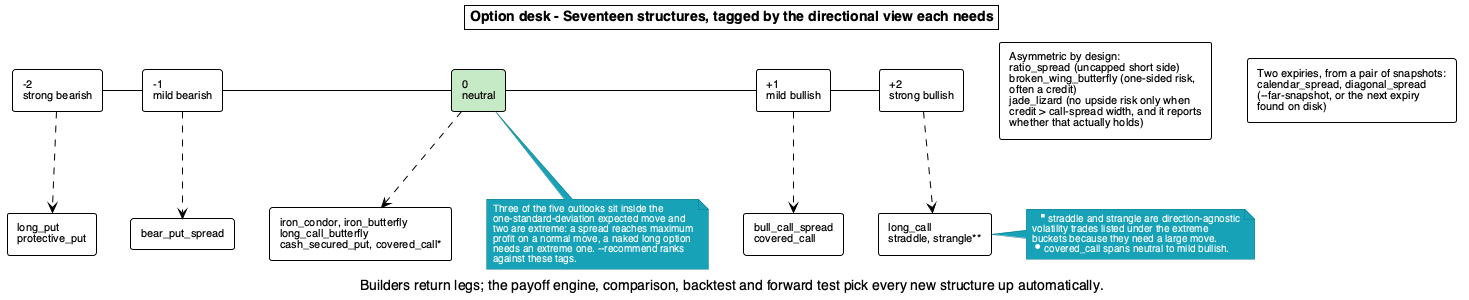
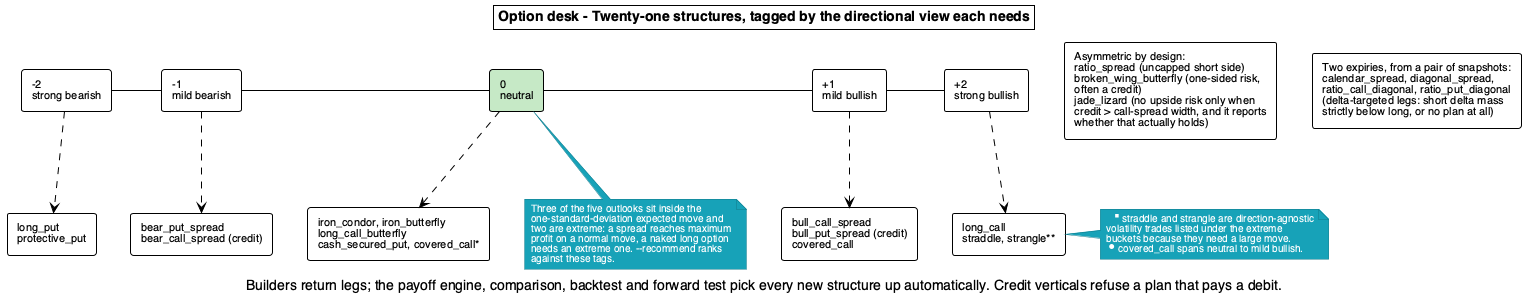
feat: the put sides of the calendar and the diagonal, as their own structures
They existed only as a --kind flag on two builders, so they built correctly
and never appeared as a row anywhere: the comparison, the dashboard and
every skill saw one side of each family. A chain can favour one side over
the other, usually the put wing where the skew is bid, and a page showing
only the call side cannot say which.

calendar_put_spread and diagonal_put_spread are registry entries in their
own right now. A registry entry names the builder and the side it is built
from, the strategy command honours both, and the plan keeps the name that
was asked for so the two sides no longer collide on one artifact filename.

Twenty-three structures, all of them built from one snapshot on the live
SPY pair, sixteen rankable, none skipped.

diff --git a/engine/src/optiondesk_engine/strategies/playbook.py b/engine/src/optiondesk_engine/strategies/playbook.py
@@ -897,6 +897,36 @@ PLAYBOOK = {
         "build": None,
         "build_two_expiry": "calendar_spread",
     },
+    "calendar_put_spread": {
+        "trade_type": "debit",
+        "outlooks": (Outlook.NEUTRAL,),
+        "vol_view": "any",
+        "needs_underlying": False,
+        "needs_two_expiries": True,
+        "when_to_use": ("The put side of the same time spread. It carries "
+                        "the same decay difference and a different skew: "
+                        "the put wing is usually the bid one, so the near "
+                        "leg sold is richer and the far leg bought costs "
+                        "more. Built as its own structure because a chain "
+                        "can favour one side over the other and a page "
+                        "showing only the call side cannot say which."),
+        "build": None,
+        "build_two_expiry": "calendar_spread",
+        "kind": "put",
+    },
+    "diagonal_put_spread": {
+        "trade_type": "debit",
+        "outlooks": (Outlook.MILD_BEARISH,),
+        "vol_view": "any",
+        "needs_underlying": False,
+        "needs_two_expiries": True,
+        "when_to_use": ("The put side of the diagonal: the calendar's "
+                        "carry with a downward lean rather than an upward "
+                        "one."),
+        "build": None,
+        "build_two_expiry": "diagonal_spread",
+        "kind": "put",
+    },
     "ratio_call_diagonal": {
         "trade_type": "debit",
         "outlooks": (Outlook.MILD_BULLISH, Outlook.STRONG_BULLISH),
@@ -930,6 +960,7 @@ PLAYBOOK = {
         "vol_view": "any",
         "needs_underlying": False,
         "needs_two_expiries": True,
+        "kind": "call",
         "when_to_use": ("A calendar with different strikes: a directional "
                         "lean on top of the calendar's carry."),
         "build": None,

diff --git a/shell/src/optiondesk/cli/strategy.py b/shell/src/optiondesk/cli/strategy.py
@@ -157,9 +157,20 @@ def _time_spread(args, engine, engine_strategies, snapshot, path):
     source_meta = snapshot.get("meta", {})
     near = engine_strategies.split_chain(snapshot)
     far = engine_strategies.split_chain(far_snapshot)
+    # A registry entry names the builder and the side it is built from, so
+    # the call and the put sides of one builder can be two structures with
+    # two names and two artifacts. Without this the put side existed only
+    # as a flag, built fine, and never appeared as a row anywhere.
+    meta = engine_strategies.PLAYBOOK.get(args.name, {})
+    builder = meta.get("build_two_expiry") or args.name
+    kind = meta.get("kind") or args.kind
     plan = engine_strategies.build_time_spread(
-        args.name, near, far, kind=args.kind, size=args.size,
-        **({"offset": args.offset} if args.name == "diagonal_spread" else {}))
+        builder, near, far, kind=kind, size=args.size,
+        **({"offset": args.offset} if builder == "diagonal_spread" else {}))
+    if plan is not None:
+        # Keep the name the user asked for. The builder returns its own,
+        # which is shared between the two sides.
+        plan["strategy"] = args.name
     if plan is None:
         return {
             "strategy": args.name,

diff --git a/scripts/package.py b/scripts/package.py
@@ -37,7 +37,7 @@ AUTHOR = {"name": "Iman Samizadeh"}
 REPOSITORY = "https://github.com/Iman/agent-driven-options-desk-and-skills"
 DESCRIPTION = (
     "Option analytics an agent can drive: chains, the full Greek ladder, "
-    "dealer positioning, twenty-one structures with ranking, a GARCH-t "
+    "dealer positioning, twenty-three structures with ranking, a GARCH-t "
     "simulation, backtests with modelled premiums, and a paper forward "
     "test. Research software, not investment advice."
 )

diff --git a/docs/CAPABILITIES.md b/docs/CAPABILITIES.md
@@ -141,7 +141,7 @@ Net position Greeks are reported with a `complete` flag and a `missing`
 list, because a position Greek summed over legs where one leg had no
 volatility is a wrong number rather than a smaller one.
 
-### 4.3 Twenty-one structures
+### 4.3 Twenty-three structures
 
 | structure | when it is the right shape |
 |---|---|
@@ -160,7 +160,9 @@ volatility is a wrong number rather than a smaller one.
 | iron butterfly | pinned rather than merely range bound |
 | long call butterfly | a cheap bet on pinning near a strike |
 | calendar spread | sell near, buy far, same strike, collect the decay difference |
+| calendar put spread | the put side of the same trade, where the skew is usually richer |
 | diagonal spread | a calendar with a directional lean |
+| diagonal put spread | the put side, leaning down instead of up |
 | ratio call diagonal | back-month longs against fewer front-month shorts, so a large rise is not capped |
 | ratio put diagonal | the bearish mirror, a large fall not capped |
 | ratio spread | financed by selling more than you buy, and uncapped on the short side |
@@ -171,7 +173,7 @@ Each plan carries legs, breakevens, maximum gain and loss, reward to risk,
 model probability of profit, net Greeks, and a friction estimate of what
 the round trip costs at quoted spreads.
 
-Four of these are different in kind. The calendar, the diagonal and the two
+Six of these are different in kind. The calendar, the diagonal and the two
 ratio diagonals have legs on different expiries, so when the near leg dies the far leg is still alive
 and still worth something. The payoff is a curve rather than line segments
 and can only be drawn by pricing the surviving leg, which is done at the

diff --git a/README.md b/README.md
@@ -23,11 +23,11 @@ Then ask your agent "where are the gamma walls on SPY?" and it will use the
 skills this installs. Eight other ways in, including Codex and ChatGPT, are
 in [INSTALL.md](INSTALL.md).
 
-![All twenty-one structures on one SPY expiry, ranked by model expected profit per unit of capital at risk, with the degradation banner the run itself produced](docs/screenshots/dashboard-comparison.png)
+![All twenty-three structures on one SPY expiry, ranked by model expected profit per unit of capital at risk, with the degradation banner the run itself produced](docs/screenshots/dashboard-comparison.png)
 
 Every screenshot on this page is one live run against free data: SPY at the
 2026-10-16 expiry with 2026-12-18 also on disk, 394 and 303 contracts, all
-twenty-one structures built and seventeen of them backtested over five
+twenty-three structures built and seventeen of them backtested over five
 years.
 None of it has been cleaned up. The amber banner is the run reporting that
 48 of those contracts fell back to the provider's published volatility
@@ -210,7 +210,7 @@ The six skills, and when each one fires:
 |---|---|
 | `options-greeks` | chains, implied volatility by strike, the sixteen Greeks per contract |
 | `options-positioning` | dealer gamma, the walls, the flip, max pain, put-call ratios, skew |
-| `options-strategy` | twenty-one structures, built, priced and ranked side by side |
+| `options-strategy` | twenty-three structures, built, priced and ranked side by side |
 | `options-simulation` | GARCH-t Monte Carlo, the fan, value at risk, expected shortfall |
 | `options-backtest` | real history with modelled premiums, significance, and paper forward tests |
 

diff --git a/plugins/option-desk/skills/options-strategy/reference.md b/plugins/option-desk/skills/options-strategy/reference.md
@@ -1,4 +1,4 @@
-# Reference: the twenty-one structures and what each needs
+# Reference: the twenty-three structures and what each needs
 
 ## Single expiry
 
@@ -26,8 +26,10 @@
 
 | structure | type | needs | pays when |
 |---|---|---|---|
-| calendar_spread | debit | the price sitting still | the near leg decays faster than the far |
-| diagonal_spread | debit | a drift toward the short strike | decay plus a directional lean |
+| calendar_spread | debit | the price sitting still | the near leg decays faster than the far, call side |
+| calendar_put_spread | debit | the price sitting still | the same trade on the put side, where the skew is usually richer |
+| diagonal_spread | debit | a drift toward the short strike | decay plus an upward lean |
+| diagonal_put_spread | debit | a drift toward the short strike | decay plus a downward lean |
 | ratio_call_diagonal | debit | a rise, without the cap a 1x1 imposes | the back-month longs outrun the fewer front-month shorts |
 | ratio_put_diagonal | debit | a fall, without the cap a 1x1 imposes | the back-month longs outrun the fewer front-month shorts |
 

diff --git a/shell/skills/options-strategy/reference.md b/shell/skills/options-strategy/reference.md
@@ -1,4 +1,4 @@
-# Reference: the twenty-one structures and what each needs
+# Reference: the twenty-three structures and what each needs
 
 ## Single expiry
 
@@ -26,8 +26,10 @@
 
 | structure | type | needs | pays when |
 |---|---|---|---|
-| calendar_spread | debit | the price sitting still | the near leg decays faster than the far |
-| diagonal_spread | debit | a drift toward the short strike | decay plus a directional lean |
+| calendar_spread | debit | the price sitting still | the near leg decays faster than the far, call side |
+| calendar_put_spread | debit | the price sitting still | the same trade on the put side, where the skew is usually richer |
+| diagonal_spread | debit | a drift toward the short strike | decay plus an upward lean |
+| diagonal_put_spread | debit | a drift toward the short strike | decay plus a downward lean |
 | ratio_call_diagonal | debit | a rise, without the cap a 1x1 imposes | the back-month longs outrun the fewer front-month shorts |
 | ratio_put_diagonal | debit | a fall, without the cap a 1x1 imposes | the back-month longs outrun the fewer front-month shorts |
 

diff --git a/GEMINI.md b/GEMINI.md
@@ -587,7 +587,7 @@ the artifact.
 
 ## Going deeper
 
-- `reference.md`: all twenty-one structures in a table with what each needs and when it pays, the five direction framework, the friction verdicts, and the fields that are not numbers.
+- `reference.md`: all twenty-three structures in a table with what each needs and when it pays, the five direction framework, the friction verdicts, and the fields that are not numbers.
 - `workflows/choose-a-structure.md`: turning a view into a structure, and the rules for reporting one.
 
 ## What else is here

diff --git a/shell/GEMINI.md b/shell/GEMINI.md
@@ -587,7 +587,7 @@ the artifact.
 
 ## Going deeper
 
-- `reference.md`: all twenty-one structures in a table with what each needs and when it pays, the five direction framework, the friction verdicts, and the fields that are not numbers.
+- `reference.md`: all twenty-three structures in a table with what each needs and when it pays, the five direction framework, the friction verdicts, and the fields that are not numbers.
 - `workflows/choose-a-structure.md`: turning a view into a structure, and the rules for reporting one.
 
 ## What else is here

diff --git a/plugins/option-desk/skills/options-strategy/SKILL.md b/plugins/option-desk/skills/options-strategy/SKILL.md
@@ -78,5 +78,5 @@ the artifact.
 
 ## Going deeper
 
-- `reference.md`: all twenty-one structures in a table with what each needs and when it pays, the five direction framework, the friction verdicts, and the fields that are not numbers.
+- `reference.md`: all twenty-three structures in a table with what each needs and when it pays, the five direction framework, the friction verdicts, and the fields that are not numbers.
 - `workflows/choose-a-structure.md`: turning a view into a structure, and the rules for reporting one.

diff --git a/shell/skills/options-strategy/SKILL.md b/shell/skills/options-strategy/SKILL.md
@@ -78,5 +78,5 @@ the artifact.
 
 ## Going deeper
 
-- `reference.md`: all twenty-one structures in a table with what each needs and when it pays, the five direction framework, the friction verdicts, and the fields that are not numbers.
+- `reference.md`: all twenty-three structures in a table with what each needs and when it pays, the five direction framework, the friction verdicts, and the fields that are not numbers.
 - `workflows/choose-a-structure.md`: turning a view into a structure, and the rules for reporting one.

diff --git a/docs/SCREENSHOTS.md b/docs/SCREENSHOTS.md
@@ -2,7 +2,7 @@
 
 Every panel and every chart the dashboard renders, captured from one
 live run: SPY at the 2026-10-16 expiry with the 2026-12-18 expiry also
-on disk, 394 and 303 contracts, all twenty-one structures built and
+on disk, 394 and 303 contracts, all twenty-three structures built and
 seventeen of them backtested over five years. Free data, delayed, and
 degraded on 12.2 percent of contracts, which the page says for itself.
 
